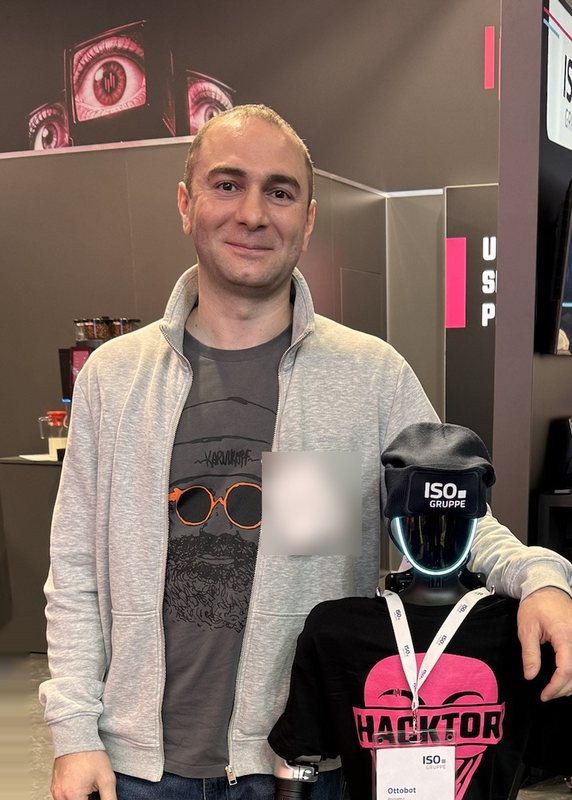
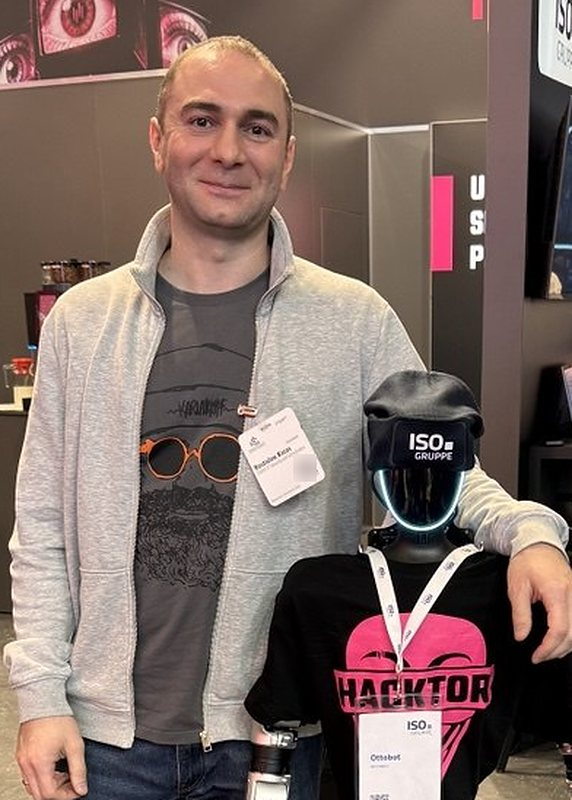
Hauptfoto neu: andere Personen abgeschnitten, nur der QR-Code weichgezeichnet, ohne Metadaten
Claude-Session: https://claude.ai/code/session_01VuaRsvkqkX3emMgMjBEPZ8

diff --git a/index.html b/index.html
@@ -55,9 +55,9 @@
   <section class="wrap hero" aria-labelledby="name">
     <img class="hero-bild"
          src="assets/rostislaw-kazas-roboter.jpg"
-         srcset="assets/rostislaw-kazas-roboter-800.jpg 572w, assets/rostislaw-kazas-roboter.jpg 830w"
+         srcset="assets/rostislaw-kazas-roboter-800.jpg 572w, assets/rostislaw-kazas-roboter.jpg 784w"
          sizes="(max-width: 720px) 100vw, 360px"
-         width="830" height="1160"
+         width="784" height="1096"
          alt="Rostislaw Kazas neben einem humanoiden Roboter auf der it-sa 2026" fetchpriority="high">
     <div class="hero-text">
       <span class="label">Chemnitz</span>

diff --git a/style.css b/style.css
@@ -235,7 +235,7 @@ a.karte:hover { border-color: var(--muted); }
 /* Handy */
 @media (max-width: 720px) {
   .hero { flex-direction: column; gap: 24px; padding-top: 20px; align-items: stretch; }
-  .hero-bild { flex: none; width: 100%; aspect-ratio: 6 / 5; object-position: 50% 30%; }
+  .hero-bild { flex: none; width: 100%; aspect-ratio: 6 / 5; object-position: 50% 12%; }
   .hero h1, .seitenkopf h1 { font-size: 2.5rem; }
   .recht h1 { font-size: 2.25rem; }
   .abschnitt { padding-top: 56px; }
